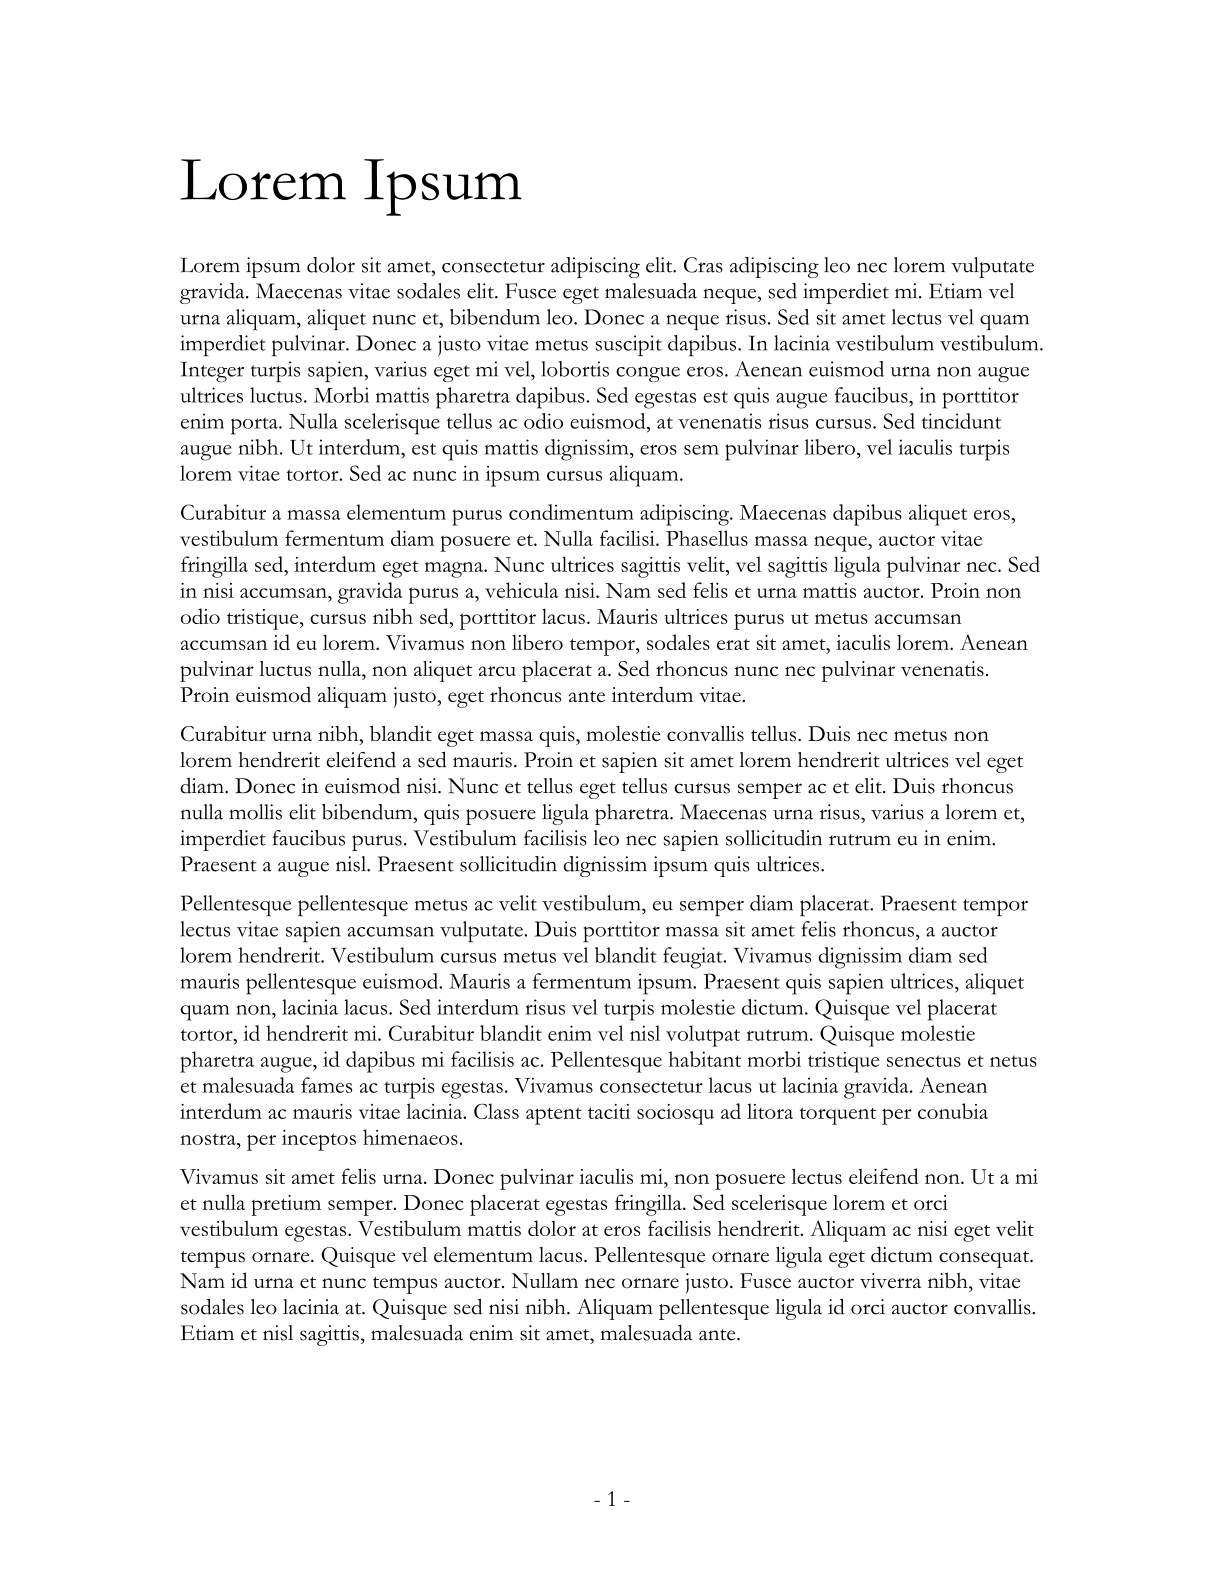
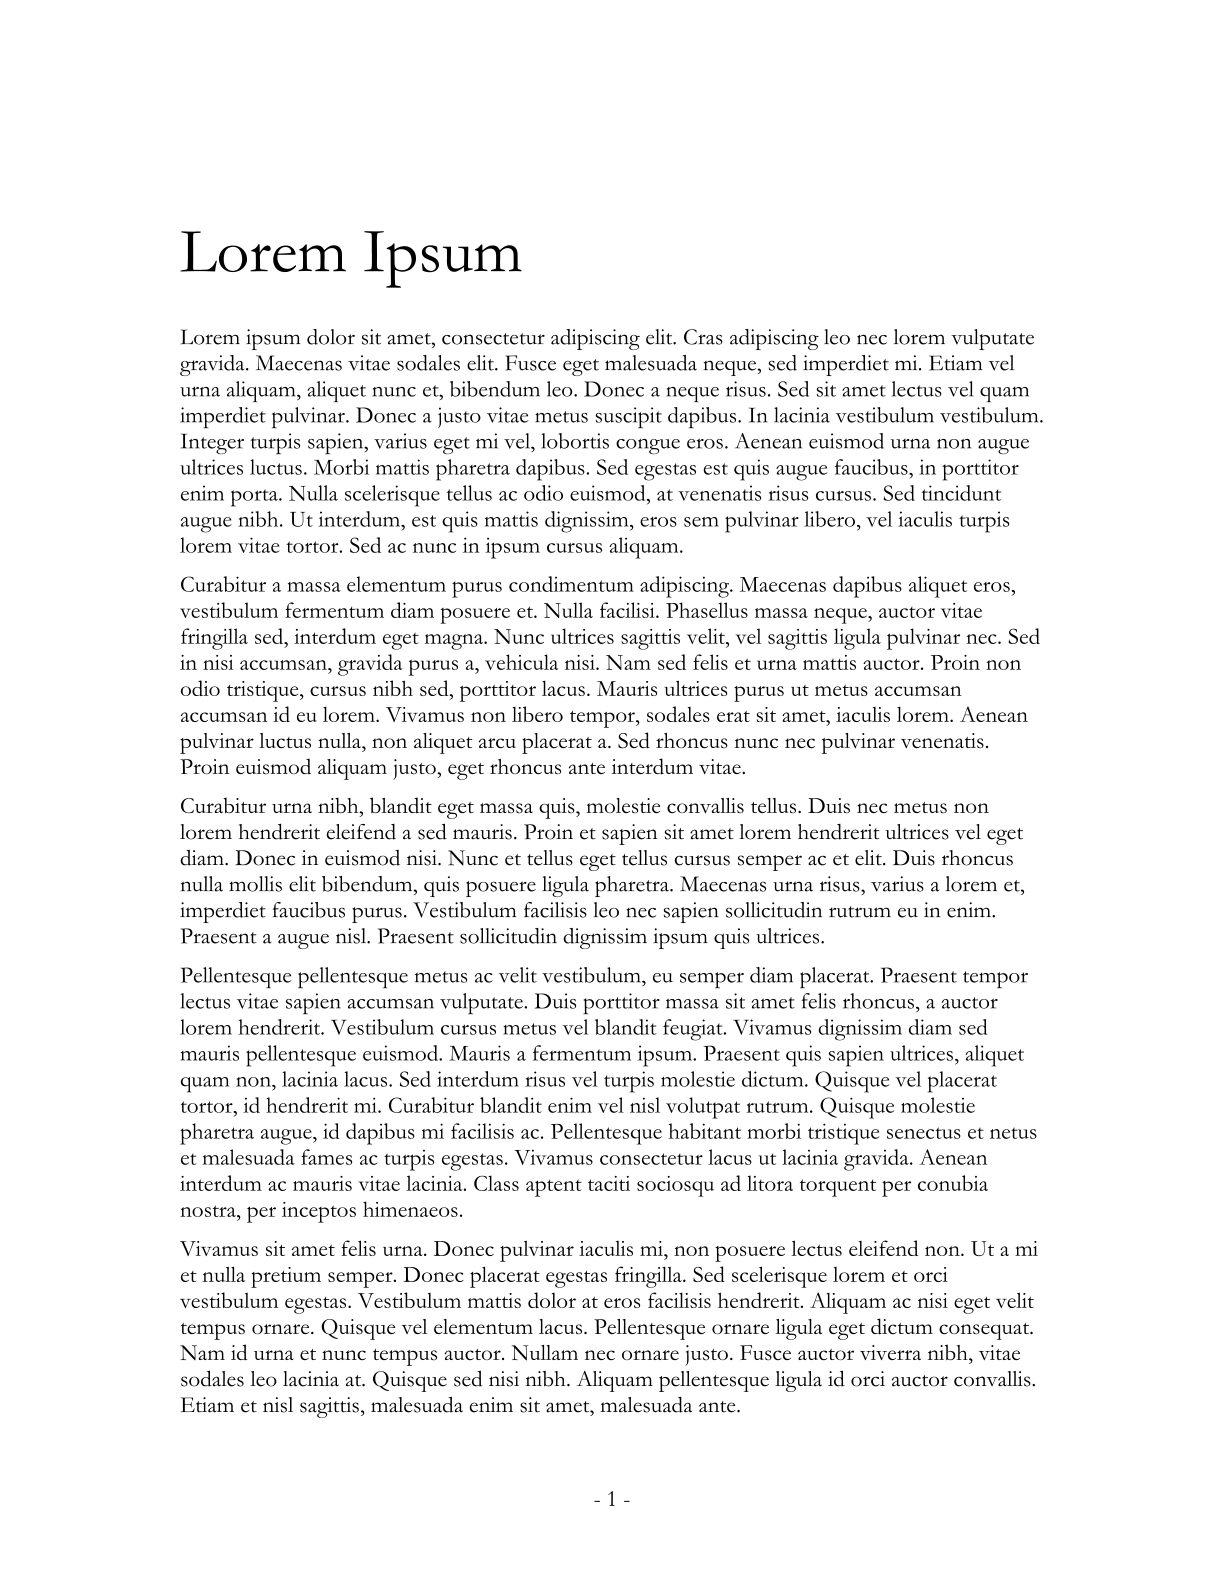
fix margin on example (why am i even doing this)

Changed region(s): [[0.1242, 0.1547, 0.8382, 0.8971], [0.1552, 0.0928, 0.4346, 0.1237]]

diff --git a/renderer_test.py b/renderer_test.py
@@ -35,7 +35,7 @@ doc.events.append(ass.document.Dialogue(
 doc.events.append(ass.document.Dialogue(
     start=timedelta(0),
     end=timedelta(milliseconds=1),
-    margin_v=int(1 * DPI * SCALE),
+    margin_v=int(1.5 * DPI * SCALE),
     style="Default",
     text="""
 {\\fs72}Lorem Ipsum{\\r}
